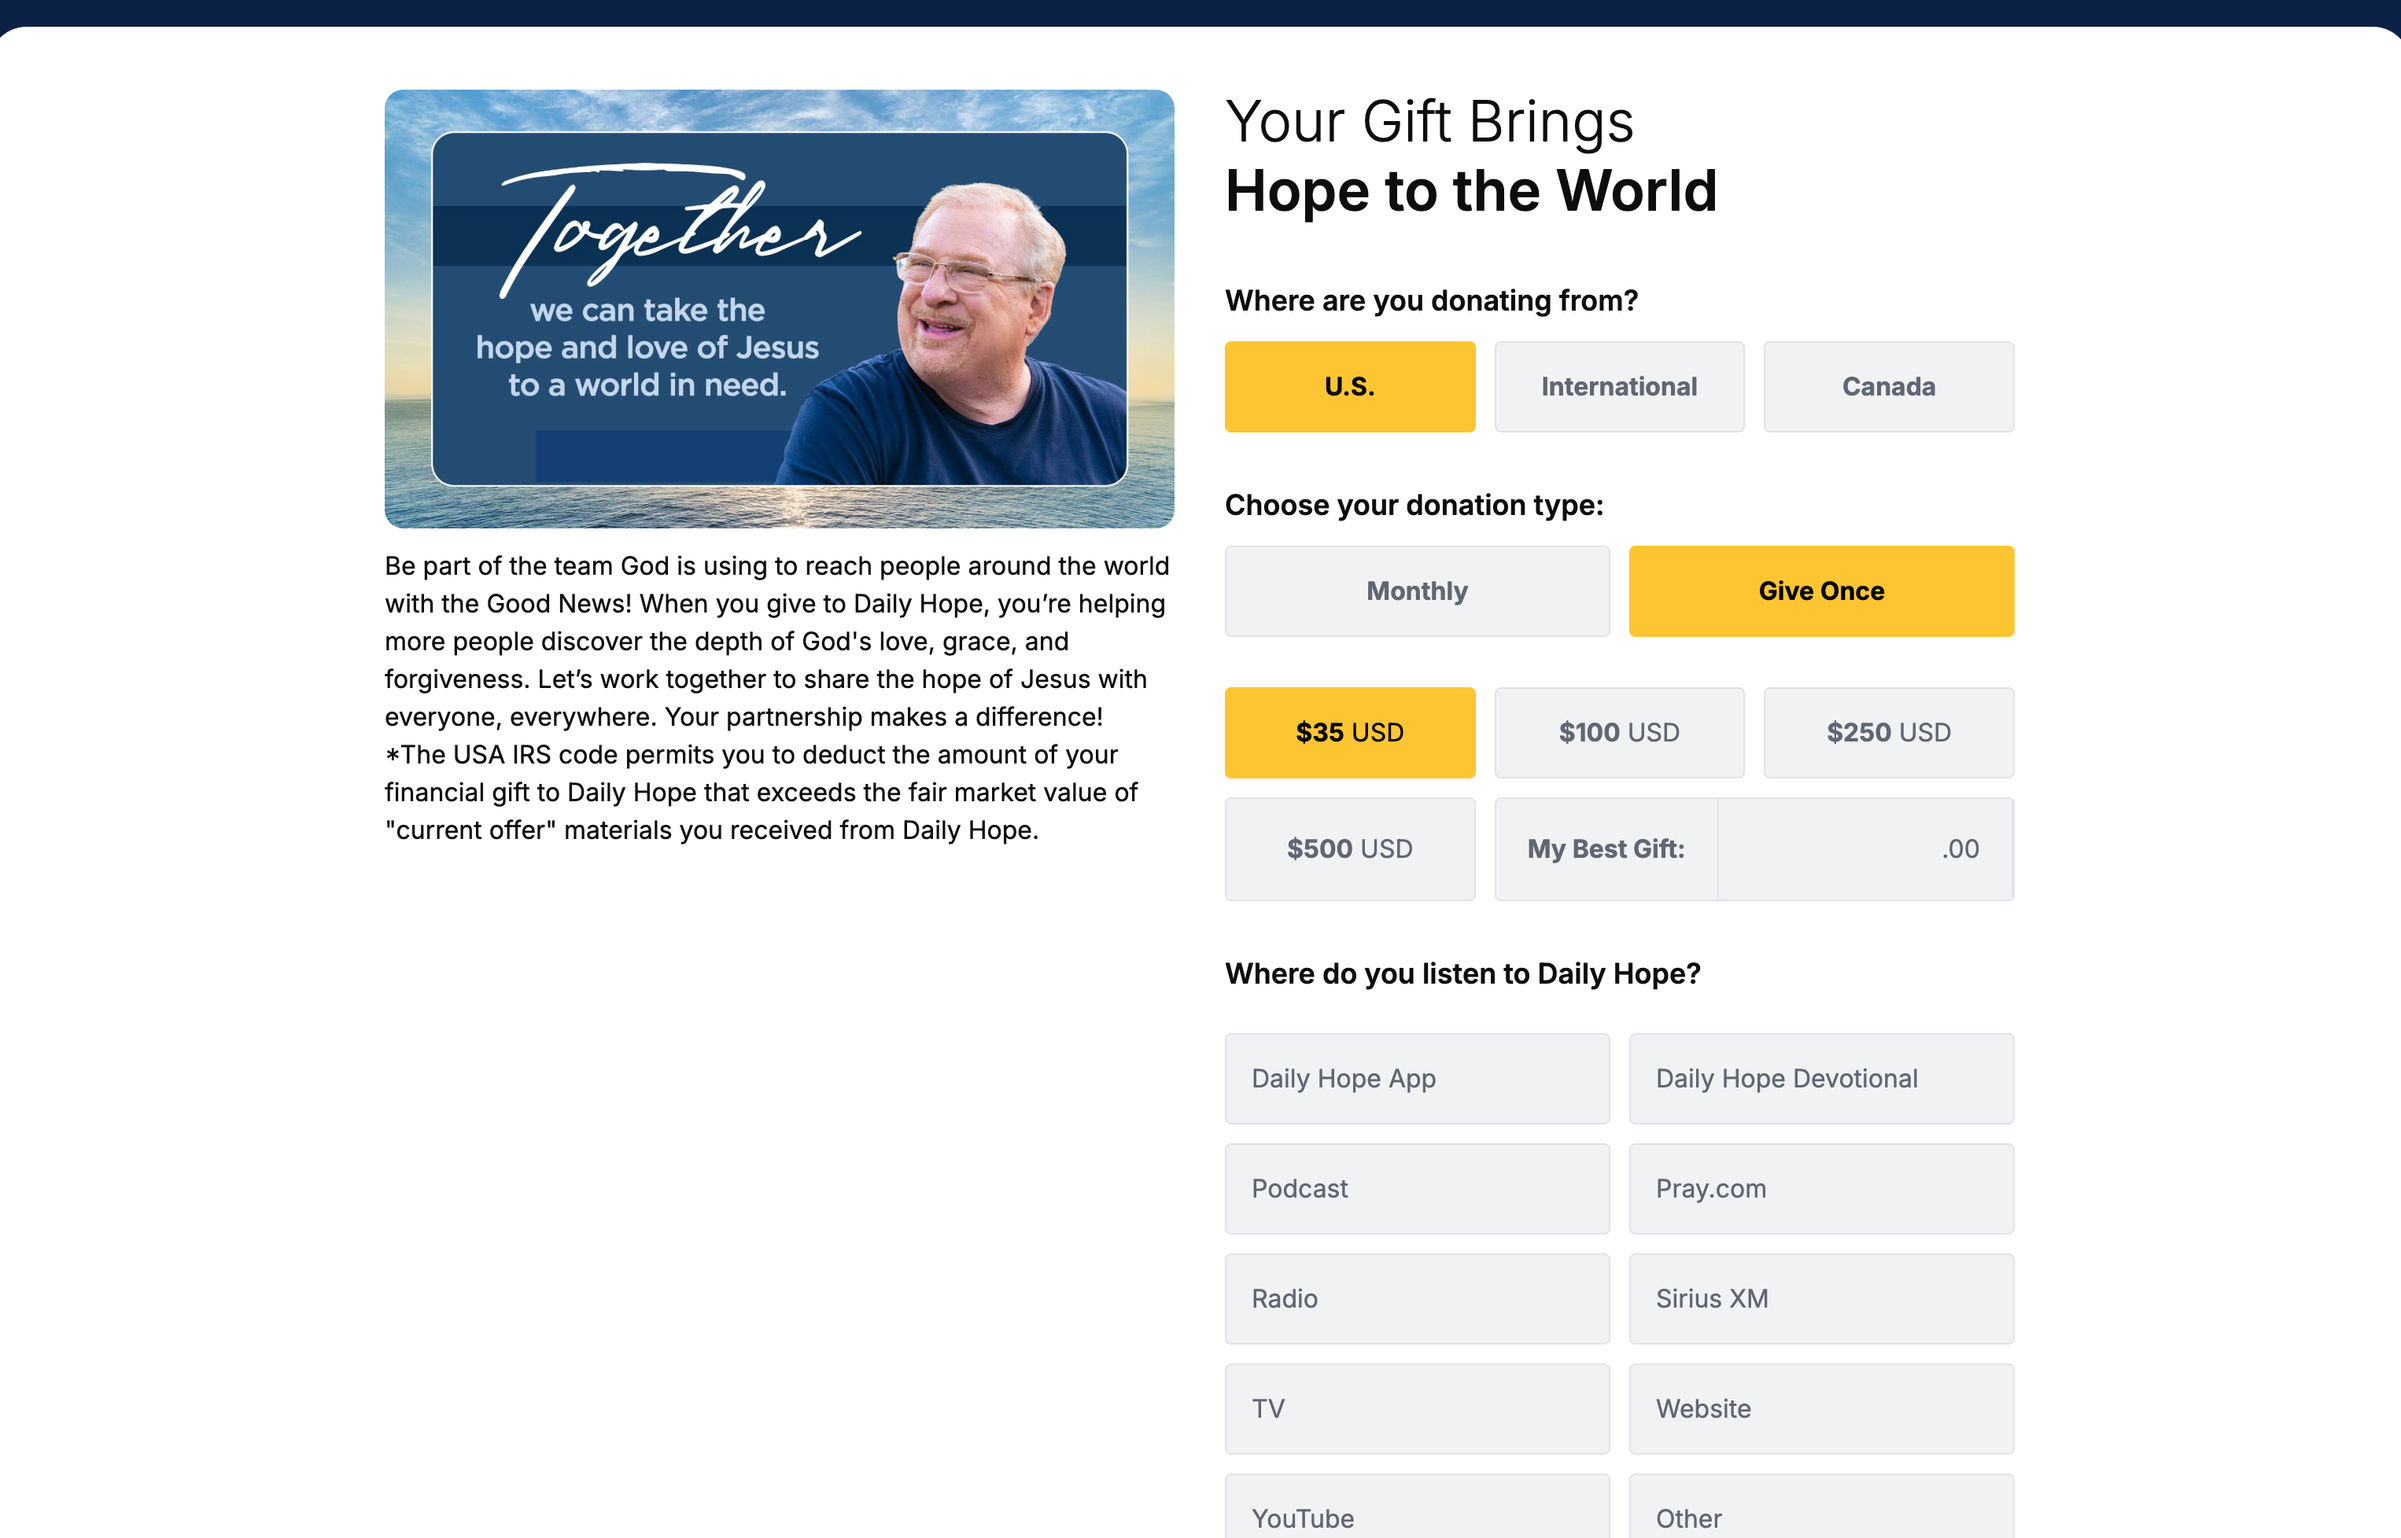
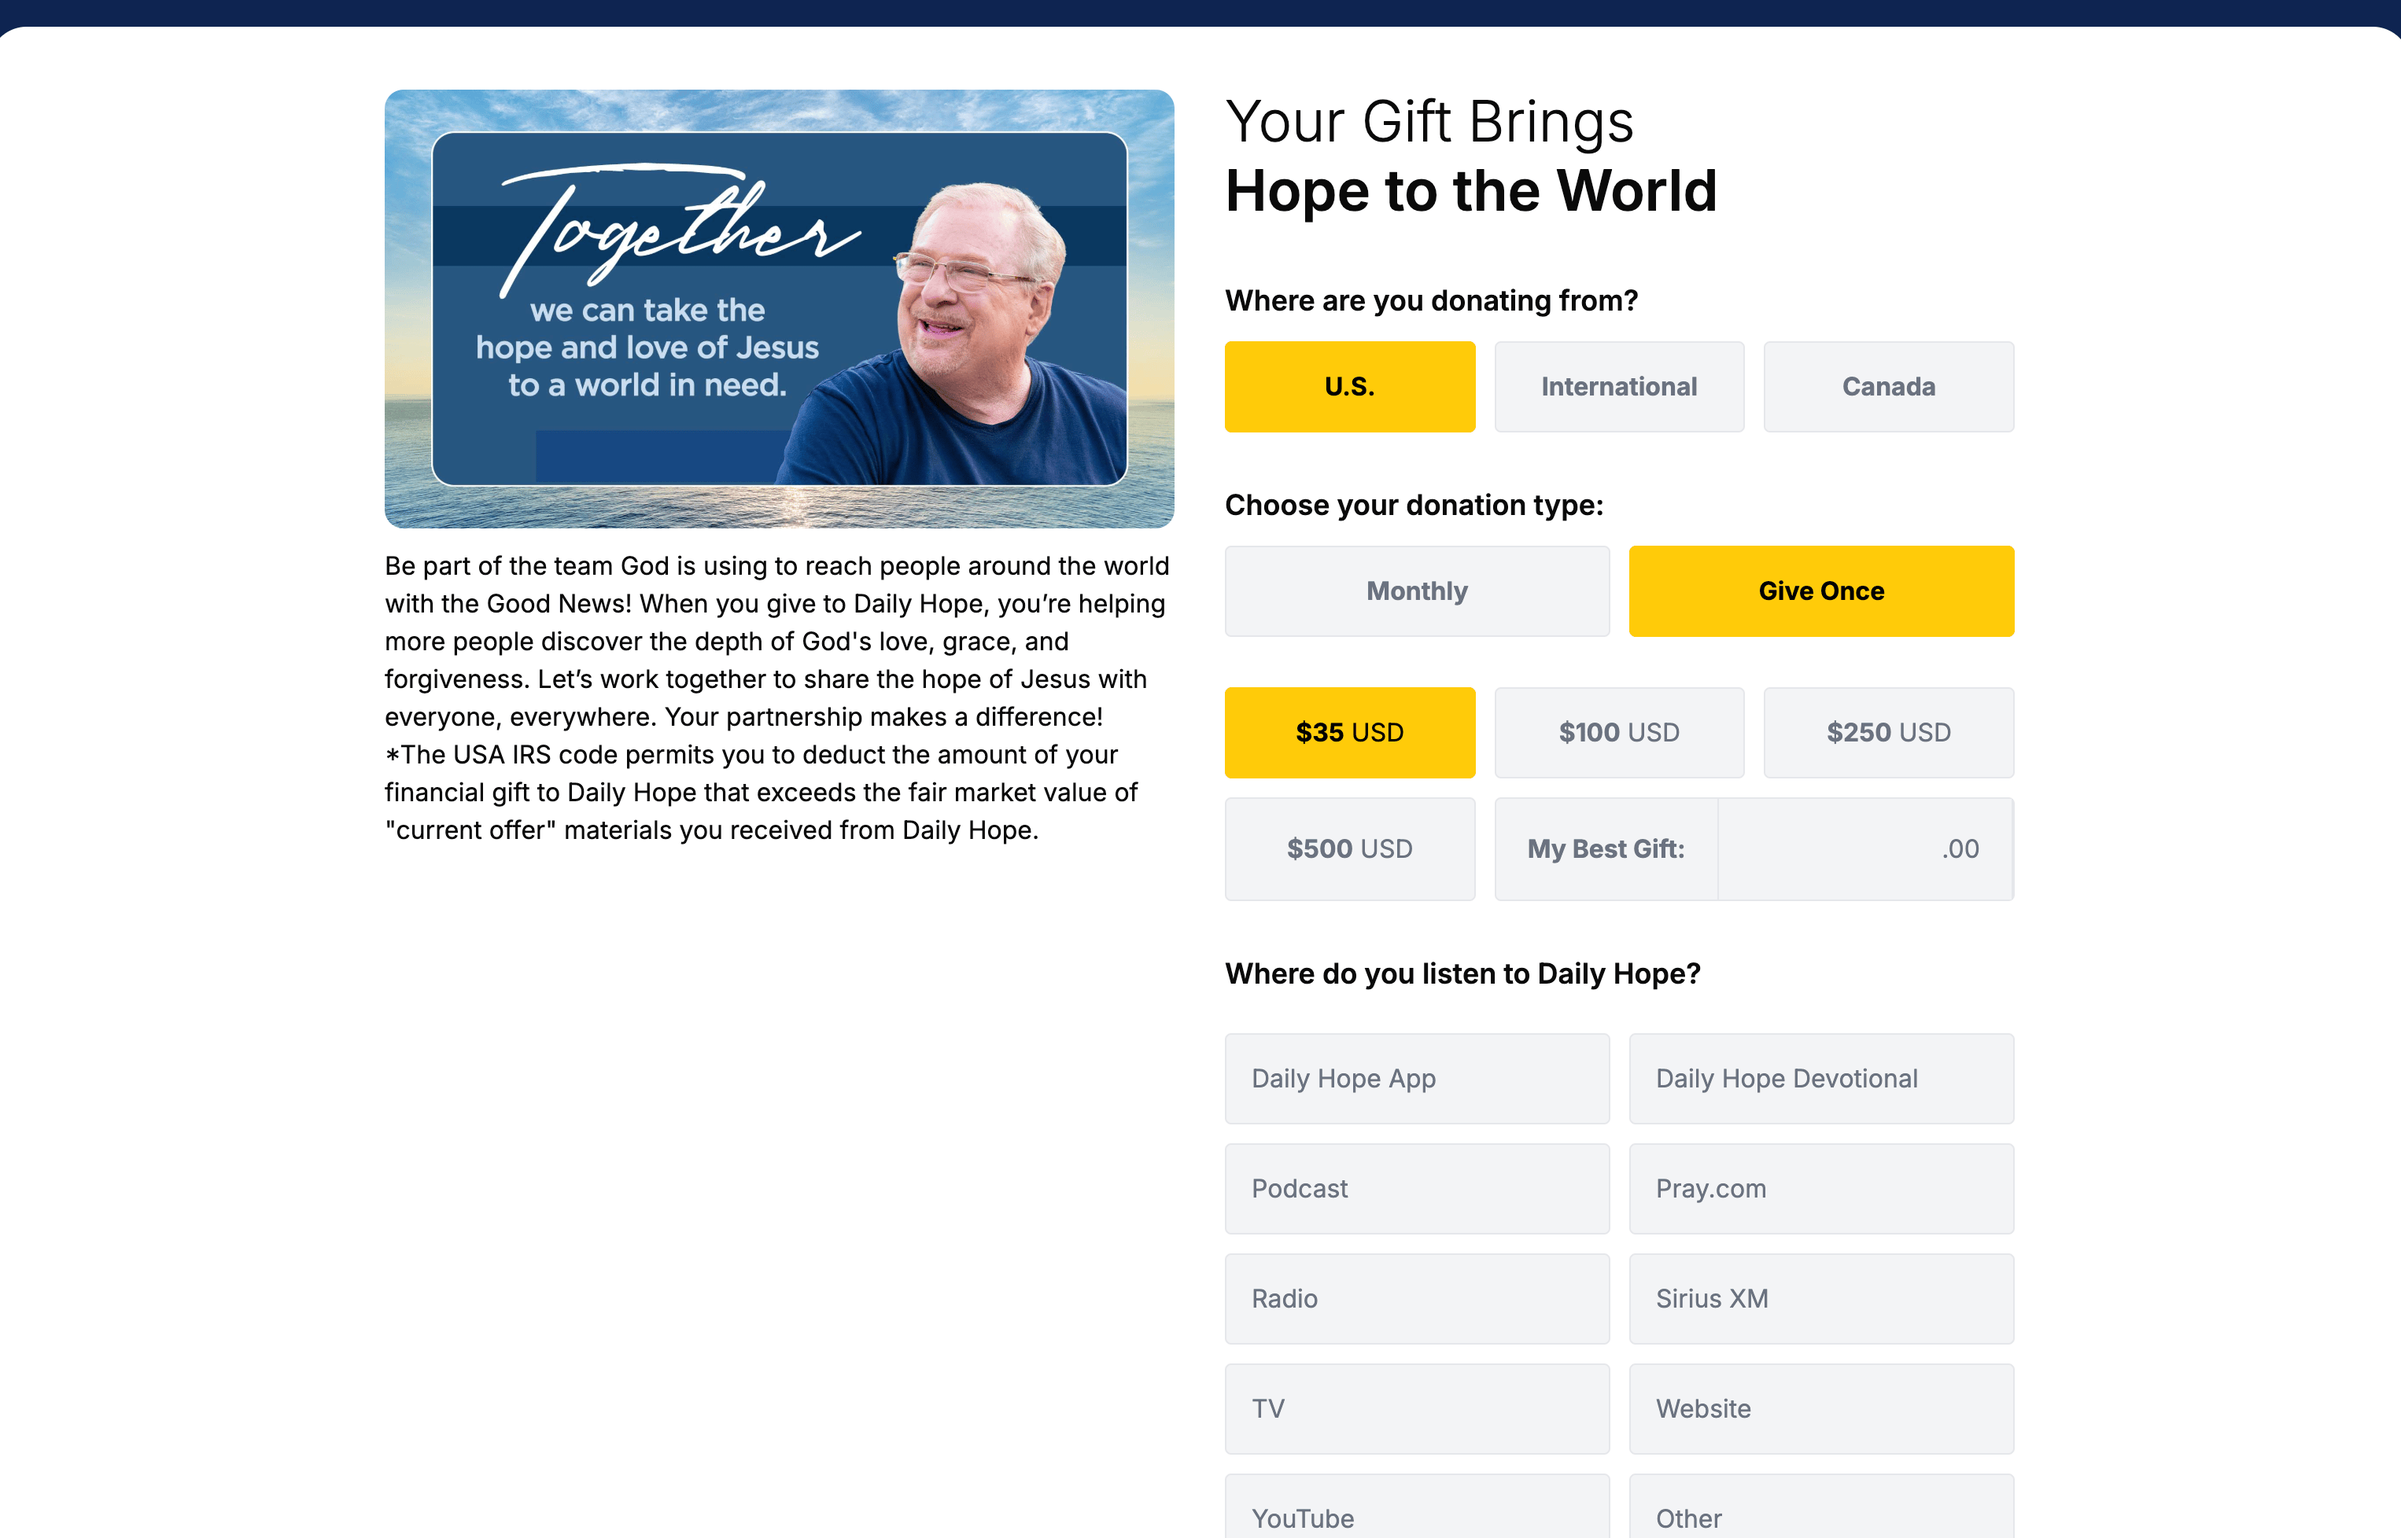
Update screenshot formats and remove outdated JPG files in work data
- Replaced several JPG screenshots with PNG and WEBP formats in `work.ts` for improved quality and consistency.
- Deleted outdated JPG files from the `public/screenshots` directory to streamline assets and reduce clutter.

Changed region(s): [[0.6537, 0.343, 0.8404, 0.4366], [0.498, 0.4366, 0.6225, 0.5302], [0.498, 0.2183, 0.6225, 0.2807]]

diff --git a/app/data/work.ts b/app/data/work.ts
@@ -112,7 +112,7 @@ export const companies: Company[] = [
         status: "Active",
         url: "https://pastorrick.com",
         screenshots: [
-          "/screenshots/dailyhope/home.jpg",
+          "/screenshots/dailyhope/home.png",
           "/screenshots/dailyhope/teaching.png",
           "/screenshots/dailyhope/listen.png",
           "/screenshots/dailyhope/donate.png",
@@ -157,10 +157,11 @@ export const companies: Company[] = [
         stack: "AWS, React Native",
         status: "Exited",
         screenshots: [
-          "/screenshots/businessglu/training.jpg",
-          "/screenshots/businessglu/lesson.jpg",
-          "/screenshots/businessglu/notifications.jpg",
-          "/screenshots/businessglu/account.jpg",
+          "/screenshots/businessglu/training.webp",
+          "/screenshots/businessglu/module.webp",
+          "/screenshots/businessglu/lesson.webp",
+          "/screenshots/businessglu/notifications.webp",
+          "/screenshots/businessglu/account.webp",
         ],
       },
       {
@@ -174,10 +175,9 @@ export const companies: Company[] = [
         stack: "AWS, React Native",
         status: "Exited",
         screenshots: [
-          "/screenshots/osp/leads.jpg",
-          "/screenshots/osp/pages.jpg",
-          "/screenshots/osp/detail.jpg",
-          "/screenshots/osp/follow-up.jpg",
+          "/screenshots/osp/leads.webp",
+          "/screenshots/osp/pages.webp",
+          "/screenshots/osp/detail.webp",
         ],
       },
       {
@@ -191,11 +191,11 @@ export const companies: Company[] = [
         stack: "React Native, RevenueCat",
         status: "Retired",
         screenshots: [
-          "/screenshots/knowledgely/home.jpg",
-          "/screenshots/knowledgely/course.jpg",
-          "/screenshots/knowledgely/lesson.jpg",
-          "/screenshots/knowledgely/store.jpg",
-          "/screenshots/knowledgely/earn.jpg",
+          "/screenshots/knowledgely/home.webp",
+          "/screenshots/knowledgely/course.webp",
+          "/screenshots/knowledgely/lesson.webp",
+          "/screenshots/knowledgely/store.webp",
+          "/screenshots/knowledgely/earn.webp",
         ],
       },
       {
